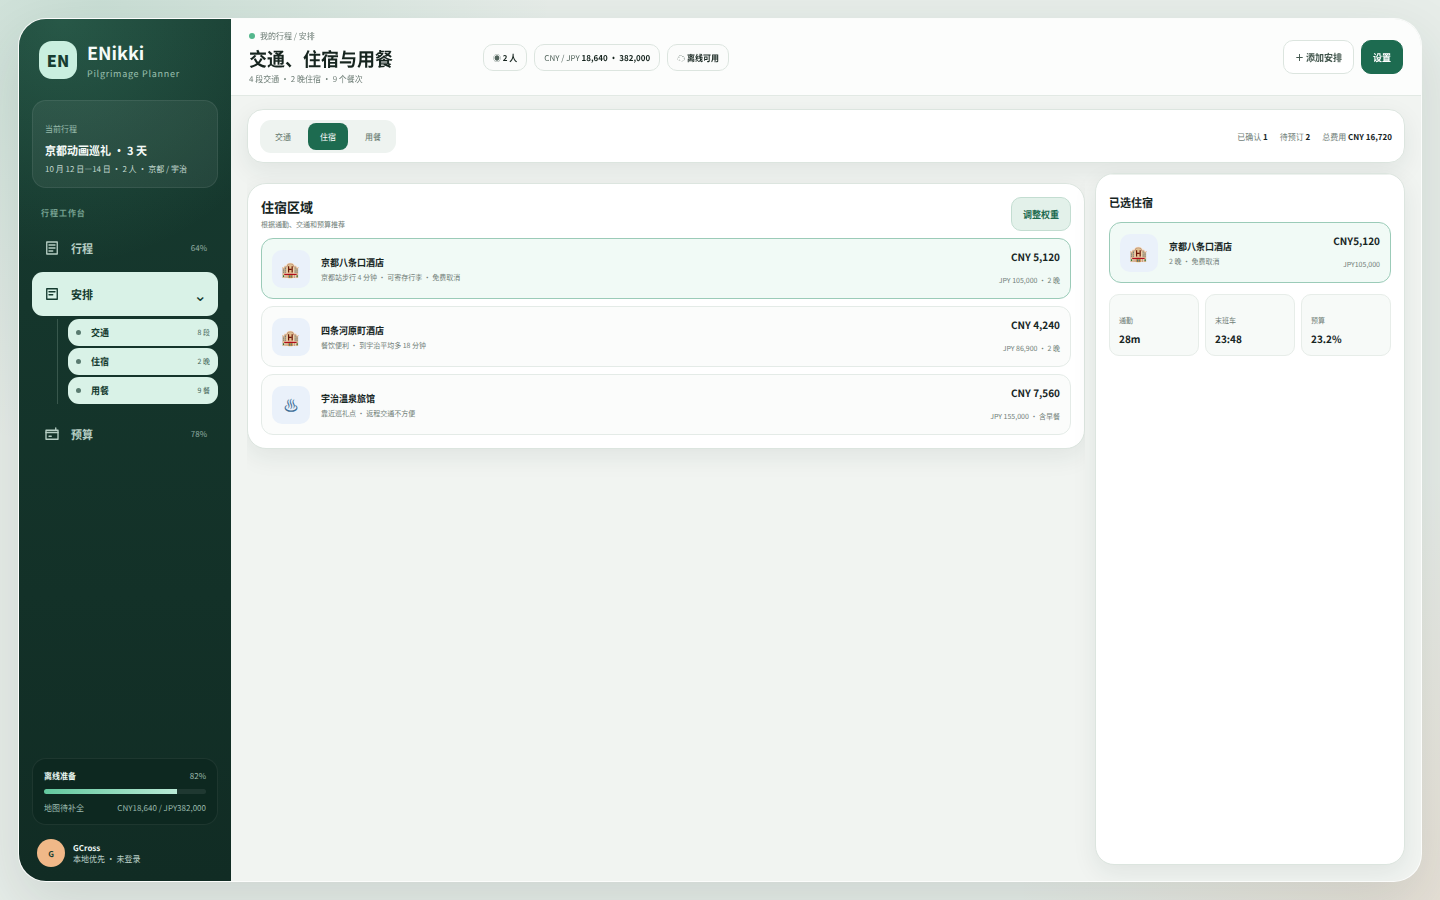
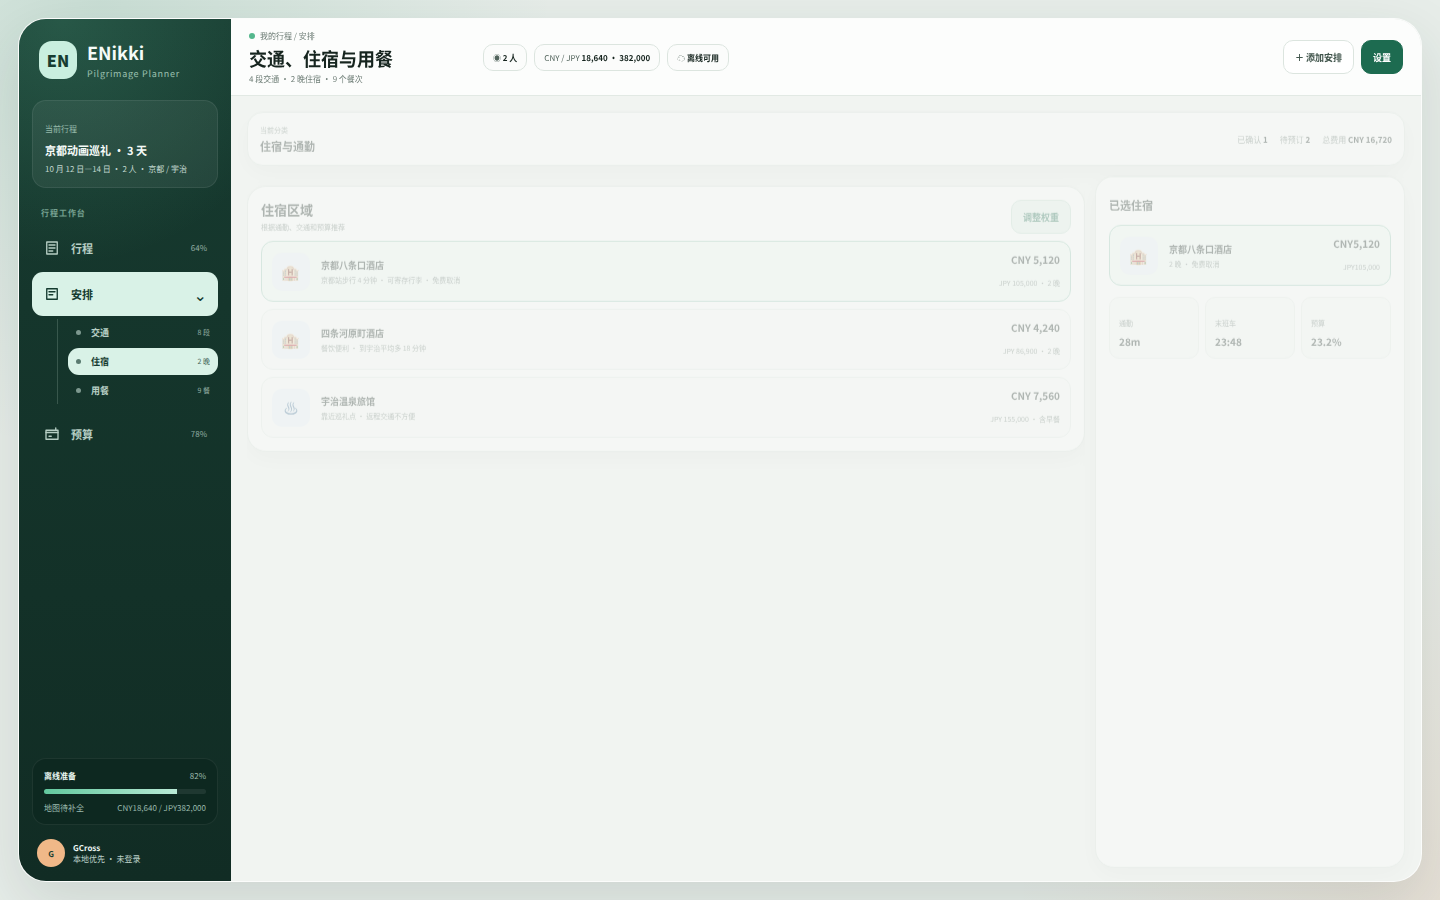
design: remove duplicate arrange tabs

diff --git a/design/enikki-ui.html b/design/enikki-ui.html
@@ -21,7 +21,7 @@ body{min-width:1080px;min-height:720px;display:grid;place-items:center;padding:1
 .day-panel{padding:10px}.day-panel h3,.timeline-head h3{margin:0;font-size:12px}.day-panel p,.timeline-head p{margin:3px 0 0;color:var(--muted);font-size:7px}.day-list{display:grid;gap:7px;margin-top:12px}.day-card{padding:10px;border:1px solid #e3eae6;border-radius:12px;color:#55675f;background:#fafcfb;text-align:left}.day-card b{display:block;font-size:10px}.day-card span{display:block;margin-top:4px;font-size:7px}.day-card.active{border-color:#8cc5b0;color:#245b47;background:#eef8f3;box-shadow:inset 0 0 0 1px #d5eae1}.add-day{margin-top:8px;width:100%;padding:9px;border:1px dashed #c6d8d0;border-radius:11px;color:#647a70;background:#fbfcfb;font-size:8px}
 .map-panel{position:relative;background:#eaf1eb}.map-toolbar{position:absolute;z-index:4;left:11px;right:11px;top:11px;display:flex;gap:7px}.search{width:250px;height:35px;display:flex;align-items:center;gap:7px;padding:0 10px;border:1px solid #dce6e1;border-radius:10px;color:#788982;background:rgba(255,255,255,.94);box-shadow:var(--shadow-sm);font-size:8px}.search svg{width:14px;height:14px;fill:none;stroke:#65786f;stroke-width:1.8}.map-actions{margin-left:auto;display:flex;gap:7px}.chip{padding:8px 10px;border:1px solid #dbe6e0;border-radius:9px;color:#53675e;background:rgba(255,255,255,.94);box-shadow:var(--shadow-sm);font-size:8px}.chip.green{color:var(--green);border-color:#bedbcf;background:#eff8f4}.map-panel>svg{width:100%;height:100%}.map-note{position:absolute;right:12px;top:57px;width:170px;padding:11px;border:1px solid #e2e9e5;border-radius:13px;background:rgba(255,255,255,.93);box-shadow:var(--shadow-sm)}.map-note small{color:var(--muted);font-size:7px}.map-note b{display:block;margin:5px 0;font-size:10px}.legend{position:absolute;left:11px;bottom:11px;padding:7px 9px;border:1px solid #e0e8e3;border-radius:10px;color:#65776e;background:rgba(255,255,255,.92);font-size:7px}.dot{width:7px;height:7px;display:inline-block;margin:0 3px 0 7px;border-radius:50%;vertical-align:middle}.dot:first-child{margin-left:0}.pin{cursor:pointer}.pin circle{stroke:#fff;stroke-width:3}.pin text{fill:#fff;font-size:10px;font-weight:900;text-anchor:middle;dominant-baseline:central}
 .timeline-panel{display:flex;flex-direction:column}.timeline-head{display:flex;align-items:center;padding:13px 14px 10px;border-bottom:1px solid #edf1ee}.timeline-head .head-actions{margin-left:auto;display:flex;gap:6px}.timeline-scroll{flex:1;min-height:0;overflow:auto;padding:7px 11px}.timeline-add{width:calc(100% - 43px);margin:3px 0 3px 43px;padding:5px 8px;border:1px dashed #cbd9d2;border-radius:8px;color:#72837a;background:#fbfcfb;font-size:7px;text-align:left}.event{display:grid;grid-template-columns:36px minmax(0,1fr);gap:7px;padding:6px 0}.event time{padding-top:6px;color:#7a8a82;font-size:8px;text-align:right}.event-card{position:relative;padding:9px 9px 9px 13px;border:1px solid #e4ebe7;border-radius:12px;background:#fbfcfb}.event-card:before{content:"";position:absolute;left:-16px;top:15px;width:9px;height:9px;border:3px solid #fff;border-radius:50%;background:var(--green);box-shadow:0 0 0 1px #d6e2dc}.event.transport .event-card:before{background:var(--blue)}.event.meal .event-card:before{background:var(--orange)}.event.lodging .event-card:before{background:var(--violet)}.event.current .event-card{border-color:#b6dccb;background:#f2faf6}.event-head{display:flex;align-items:center;gap:6px}.event-head strong{font-size:9px}.event-head span{margin-left:auto;padding:3px 5px;border-radius:5px;color:#4a665a;background:#edf3ef;font-size:6px}.edit-link{padding:3px 5px;border-radius:5px;color:#6b7d74;background:#edf3ef;font-size:6px}.event-meta{margin-top:5px;color:#819087;font-size:7px}.checkin-inline{margin-top:7px;padding:7px;border:1px solid #d2e7dd;border-radius:9px;display:flex;align-items:center;gap:7px;background:#f5fbf8}.checkin-inline i{width:24px;height:24px;display:grid;place-items:center;border-radius:8px;color:#fff;background:var(--green);font-size:11px;font-style:normal}.checkin-inline b{display:block;font-size:7px}.checkin-inline small{display:block;margin-top:2px;color:var(--muted);font-size:6px}.checkin-inline button{margin-left:auto;padding:5px 7px;border-radius:7px;color:#fff;background:var(--green);font-size:7px}
-.arrange-head{height:54px;display:flex;align-items:center;gap:12px;margin-bottom:10px;padding:8px 12px;border:1px solid var(--line);border-radius:16px;background:#fff;box-shadow:var(--shadow-sm)}.tabs{display:flex;gap:5px;padding:3px;border-radius:11px;background:#eef3f0}.tabs button{padding:8px 12px;border-radius:8px;color:#60736a;background:transparent;font-size:8px}.tabs button.active{color:#fff;background:var(--green)}.arrange-head .summary{margin-left:auto;display:flex;gap:12px;color:#718079;font-size:8px}.arrange-head .summary b{color:var(--ink)}.arrange-body{height:calc(100% - 64px);display:grid;grid-template-columns:minmax(0,1fr) 310px;gap:10px}.arrange-content{min-height:0;overflow:auto}.section{padding:13px}.section+.section{margin-top:10px}.section-title{display:flex;align-items:flex-start;gap:10px}.section-title h3{margin:0;font-size:13px}.section-title p{margin:3px 0 0;color:var(--muted);font-size:7px}.section-title .btn{margin-left:auto}.route{display:flex;align-items:center;gap:8px;margin:12px 0 7px;color:#74847c;font-size:8px}.route b{color:#263d34;font-size:9px}.route-line{width:45px;height:1px;position:relative;background:#c6d5cd}.route-line:after{content:"";position:absolute;right:0;top:-2px;border-left:5px solid #c6d5cd;border-top:3px solid transparent;border-bottom:3px solid transparent}
+.arrange-head{height:54px;display:flex;align-items:center;gap:12px;margin-bottom:10px;padding:8px 12px;border:1px solid var(--line);border-radius:16px;background:#fff;box-shadow:var(--shadow-sm)}.tabs{display:flex;gap:5px;padding:3px;border-radius:11px;background:#eef3f0}.tabs button{padding:8px 12px;border-radius:8px;color:#60736a;background:transparent;font-size:8px}.tabs button.active{color:#fff;background:var(--green)}.arrange-head .arrange-current{min-width:150px}.arrange-current small{display:block;color:#7c8b83;font-size:7px}.arrange-current b{display:block;margin-top:3px;font-size:11px}.arrange-head .summary{margin-left:auto;display:flex;gap:12px;color:#718079;font-size:8px}.arrange-head .summary b{color:var(--ink)}.arrange-body{height:calc(100% - 64px);display:grid;grid-template-columns:minmax(0,1fr) 310px;gap:10px}.arrange-content{min-height:0;overflow:auto}.section{padding:13px}.section+.section{margin-top:10px}.section-title{display:flex;align-items:flex-start;gap:10px}.section-title h3{margin:0;font-size:13px}.section-title p{margin:3px 0 0;color:var(--muted);font-size:7px}.section-title .btn{margin-left:auto}.route{display:flex;align-items:center;gap:8px;margin:12px 0 7px;color:#74847c;font-size:8px}.route b{color:#263d34;font-size:9px}.route-line{width:45px;height:1px;position:relative;background:#c6d5cd}.route-line:after{content:"";position:absolute;right:0;top:-2px;border-left:5px solid #c6d5cd;border-top:3px solid transparent;border-bottom:3px solid transparent}
 .option{display:grid;grid-template-columns:40px minmax(0,1fr) auto;gap:9px;align-items:center;margin-top:7px;padding:10px;border:1px solid #e4ebe7;border-radius:12px;background:#fbfcfb}.option.active{border-color:#9bcbb8;background:#f1faf6}.option-icon{width:38px;height:38px;display:grid;place-items:center;border-radius:10px;color:#3d6d97;background:var(--blue-soft);font-size:15px}.option.meal .option-icon{color:#a45d32;background:var(--orange-soft)}.option.stay .option-icon{color:#6556ad;background:var(--violet-soft)}.option h4{margin:0;font-size:9px}.option p{margin:3px 0 0;color:var(--muted);font-size:7px}.option .price{text-align:right}.option .price b{display:block;font-size:10px}.option .price small{color:var(--muted);font-size:7px}.side-panel{min-height:0;overflow:auto}.side-section{padding:13px}.side-section+.side-section{border-top:1px solid #edf1ee}.metrics{display:grid;grid-template-columns:repeat(3,1fr);gap:6px;margin-top:11px}.metric{padding:9px;border-radius:10px;background:#f7faf8;border:1px solid #e7ede9}.metric small{color:var(--muted);font-size:7px}.metric b{display:block;margin-top:3px;font-size:10px}
 .meal-grid{display:grid;grid-template-columns:1fr 1fr;gap:9px;margin-top:10px}.meal-card{padding:11px;border:1px solid #e5ebe7;border-radius:13px;background:#fbfcfb}.meal-card .type{color:var(--orange);font-size:7px;font-weight:800}.meal-card h4{margin:6px 0 4px;font-size:10px}.meal-card p{margin:0;color:var(--muted);font-size:7px}.tags{display:flex;gap:5px;margin-top:9px}.tag{padding:4px 6px;border-radius:6px;color:#61736a;background:#eef3f0;font-size:7px}.tag.green{color:#2e7158;background:var(--green-soft)}.tag.warm{color:#a45d32;background:var(--orange-soft)}
 .budget-strip{height:78px;display:flex;align-items:center;gap:18px;margin-bottom:10px;padding:12px 16px;border-radius:18px;color:#fff;background:linear-gradient(135deg,#1c634c,#348d6a);box-shadow:var(--shadow-sm)}.budget-strip small{color:#c0e1d4;font-size:8px}.budget-strip .total{margin-top:5px;font-size:22px;font-weight:800}.budget-strip .pair{color:#d5eee4;font-size:9px}.budget-strip .spacer{flex:1}.budget-strip .stat{color:#e3f4ed;border-color:rgba(255,255,255,.18);background:rgba(255,255,255,.08)}.budget-strip .stat b{color:#fff}.budget-body{height:calc(100% - 88px);display:grid;grid-template-columns:minmax(0,1fr) 330px;gap:10px}.budget-list{min-height:0;overflow:auto}.budget-row{display:grid;grid-template-columns:38px minmax(0,1fr) auto;gap:9px;align-items:center;padding:11px 13px;border-bottom:1px solid #edf1ee}.budget-row:last-child{border-bottom:0}.budget-icon{width:36px;height:36px;display:grid;place-items:center;border-radius:10px;background:#f0f4f2;font-size:14px}.budget-row h4{margin:0;font-size:9px}.budget-row p{margin:3px 0 0;color:var(--muted);font-size:7px}.amount{text-align:right}.amount b{display:block;font-size:10px}.amount small{color:var(--muted);font-size:7px}.donut-wrap{display:grid;grid-template-columns:120px 1fr;gap:14px;align-items:center;padding:15px}.donut{width:112px;height:112px;position:relative;border-radius:50%;background:conic-gradient(var(--green) 0 35%,var(--orange) 35% 57%,var(--violet) 57% 77%,var(--blue) 77% 90%,#ced9d3 90% 100%)}.donut:before{content:"";position:absolute;inset:21px;border-radius:50%;background:#fff}.donut span{position:absolute;inset:0;display:grid;place-content:center;text-align:center;font-size:15px;font-weight:800}.donut small{font-size:7px;font-weight:500;color:var(--muted)}
@@ -111,7 +111,7 @@ body{min-width:1080px;min-height:720px;display:grid;place-items:center;padding:1
       </section>
       <section class="page" id="page-arrange">
         <div class="arrange-head">
-          <div class="tabs"><button class="active" data-arrange-tab="transport">交通</button><button data-arrange-tab="lodging">住宿</button><button data-arrange-tab="meals">用餐</button></div>
+          <div class="arrange-current"><small>当前分类</small><b id="arrangeCurrent">交通与路线</b></div>
           <div class="summary"><span>已确认 <b>1</b></span><span>待预订 <b>2</b></span><span>总费用 <b>CNY 16,720</b></span></div>
         </div>
         <div class="arrange-body">
@@ -226,7 +226,7 @@ let activeArrangeTab='transport';
 function activateView(name,push=true){
   if(!document.getElementById(`page-${name}`)) name='plan';
   pages.forEach(p=>p.classList.toggle('active',p.id===`page-${name}`));
-  navButtons.forEach(b=>b.classList.toggle('active',b.dataset.view===name));
+  navButtons.forEach(b=>b.classList.toggle('active',b.dataset.tab?(name==='arrange'&&b.dataset.tab===activeArrangeTab):b.dataset.view===name));
   const info=copy[name];
   document.getElementById('crumb').textContent=info[0];
   document.getElementById('page-title').textContent=info[1];
@@ -245,12 +245,12 @@ function openArrangeTab(tab){
   activateView('arrange');
 }
 function renderArrangeTab(tab){
-  document.querySelectorAll('[data-arrange-tab]').forEach(b=>b.classList.toggle('active',b.dataset.arrangeTab===tab));
+  const labels={transport:'交通与路线',lodging:'住宿与通勤',meals:'每日用餐'};
+  document.getElementById('arrangeCurrent').textContent=labels[tab]||labels.transport;
   document.querySelectorAll('[data-arrange-panel]').forEach(p=>p.style.display=p.dataset.arrangePanel===tab?'block':'none');
   document.querySelectorAll('[data-arrange-side]').forEach(p=>p.style.display=p.dataset.arrangeSide===tab?'block':'none');
 }
-document.querySelectorAll('[data-view]').forEach(button=>button.addEventListener('click',()=>activateView(button.dataset.view)));
-document.querySelectorAll('[data-arrange-tab]').forEach(button=>button.addEventListener('click',()=>openArrangeTab(button.dataset.arrangeTab)));
+document.querySelectorAll('[data-view]').forEach(button=>button.addEventListener('click',()=>{if(button.dataset.tab)activeArrangeTab=button.dataset.tab;activateView(button.dataset.view);}));
 document.querySelectorAll('[data-nav-group]').forEach(button=>button.addEventListener('click',()=>{
   const target=document.getElementById(`subnav-${button.dataset.navGroup}`);
   const open=target.classList.toggle('open');button.classList.toggle('open',open);
